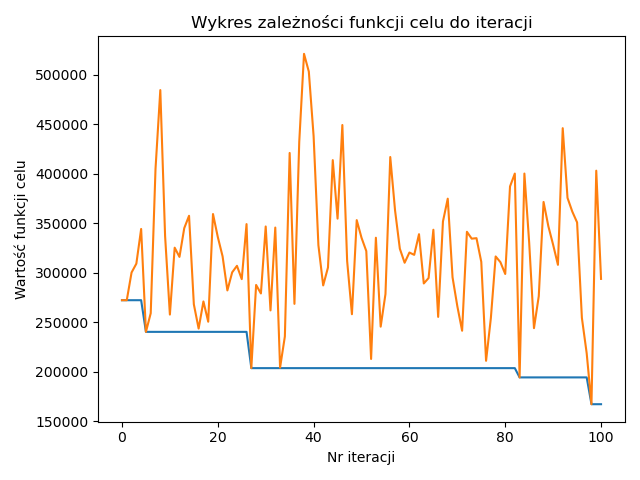
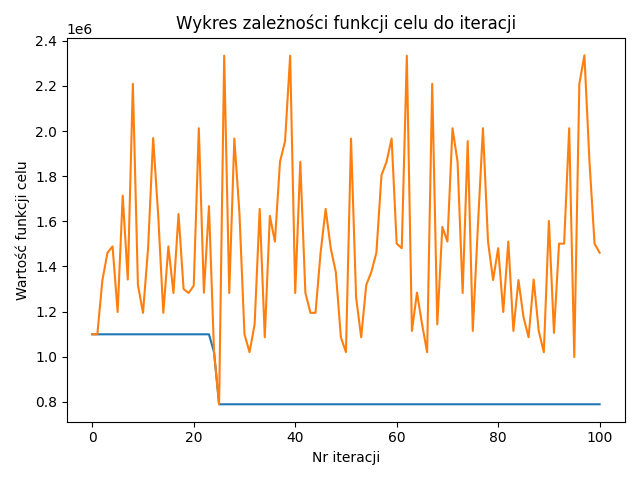
sel_prop

diff --git a/src/algorithm.py b/src/algorithm.py
@@ -212,7 +212,9 @@ def selection_rank(population_score: List[tuple[int, int]] = None, population_si
 def selection_roulette(population_scores: List[tuple[int, int]], population_size: int):
     scores = np.array([score for _, score in population_scores])
     total_score = scores.sum()
-    probabilities = scores / total_score
+    new_scores = 1/scores
+    new_total_score = new_scores.sum()
+    probabilities = new_scores / new_total_score
     indices = np.arange(len(population_scores))
     selected_indices = np.random.choice(indices, size=population_size, p=probabilities, replace=False)
     return [population_scores[i] for i in selected_indices]
